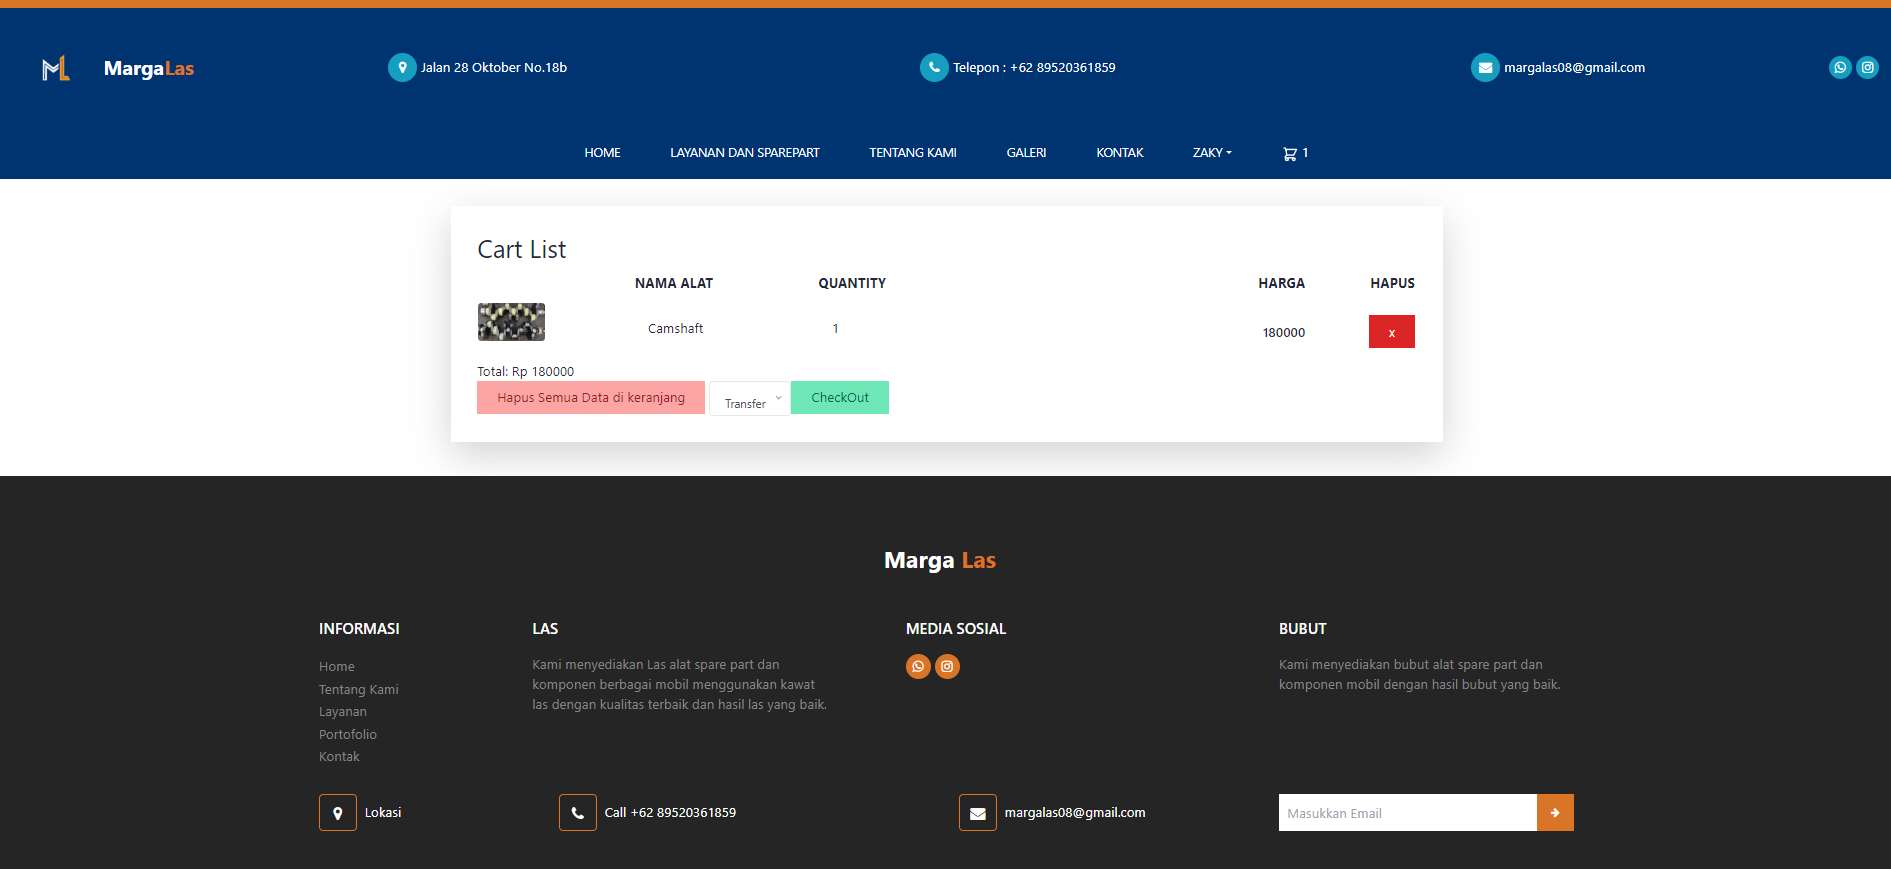
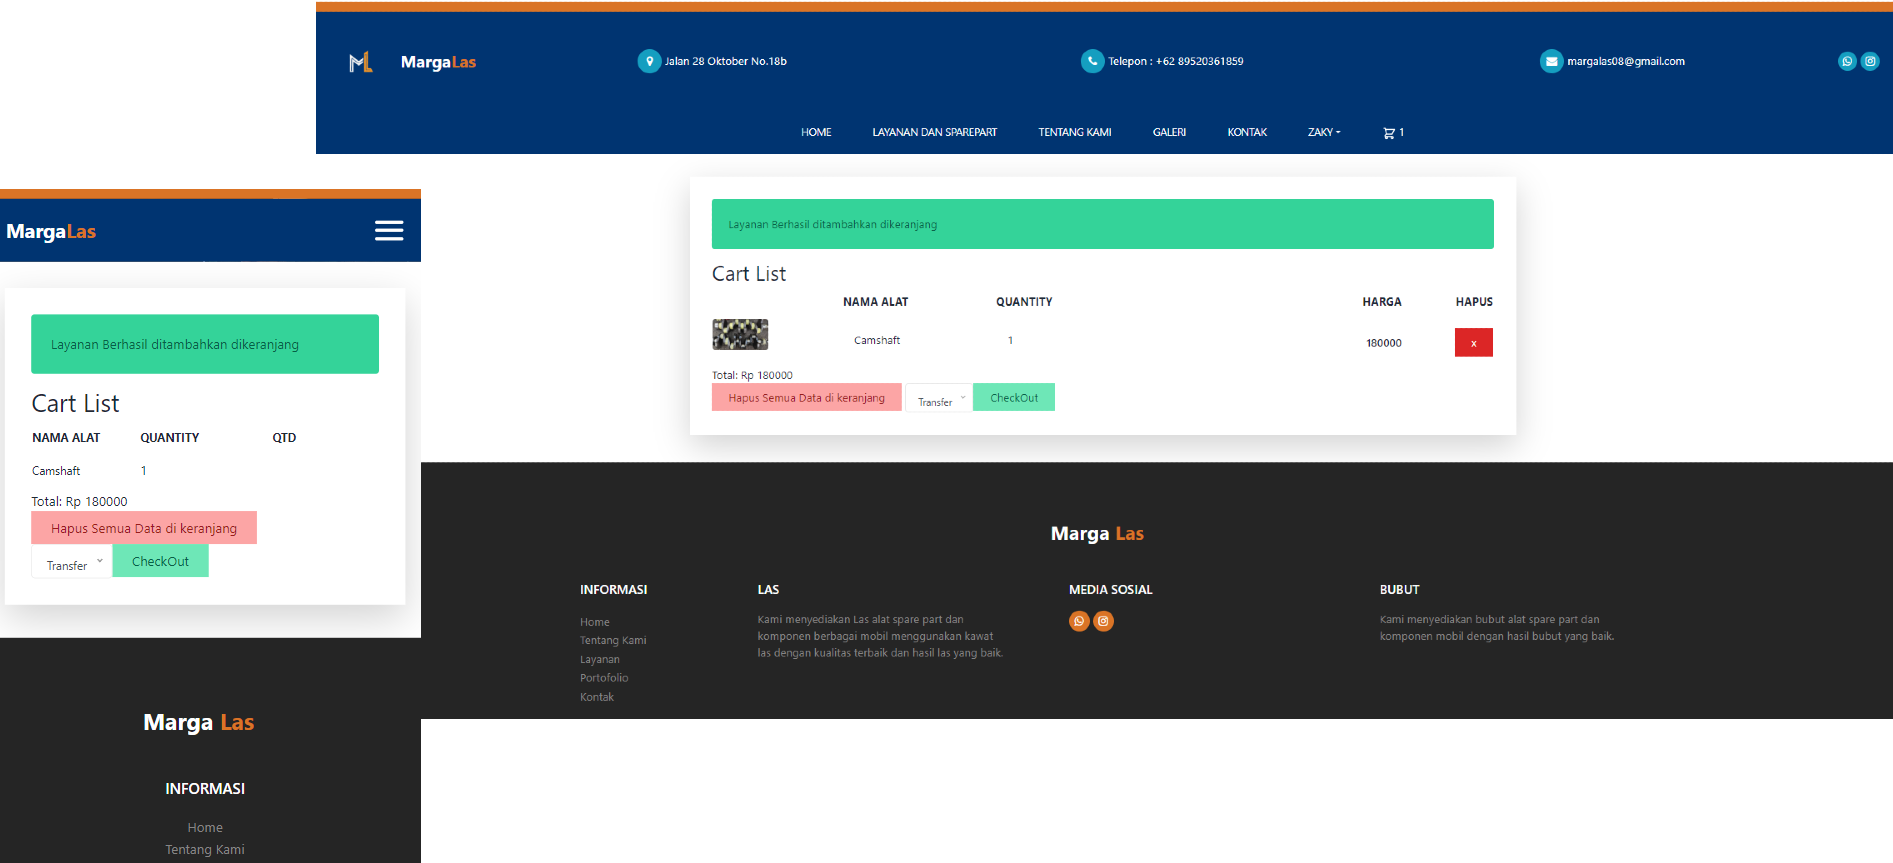
fix navbar, fix content, 50% sidebar

diff --git a/css/style.css b/css/style.css
@@ -13,9 +13,13 @@
 }
 
 body {
-  font-family: "roboto", sans-serif;
+  font-family: "ubuntu", sans-serif;
   background-color: var(--bg);
   /* color: #fff; */
+  background-image: url("/img/bg.png");
+  background-size: cover; /* Untuk menutupi seluruh area elemen body */
+  background-position: center; /* Untuk mengatur posisi gambar ke tengah */
+  background-repeat: no-repeat; /* Untuk mencegah pengulangan gambar */
 }
 
 /* Navbar */
@@ -25,13 +29,18 @@ body {
   align-items: center;
   display: flex;
   justify-content: center; /* align horizontal */
-  border-bottom: 1px solid #e0e1e6;
   position: fixed;
   top: 0;
   left: 0;
   right: 0;
   padding: 0.8rem 7%; /* Mengurangi padding atas dan bawah */
   z-index: 9999;
+}
+
+.navbar.scrolled {
+  background-color: #fff; /* Mengubah warna latar belakang menjadi putih */
+  box-shadow: 0px 4px 10px rgba(0, 0, 0, 0.1); /* Menambahkan box shadow */
+  transition: background-color 0.3s ease, box-shadow 0.3s ease; /* Animasi transisi */
 }
 
 .navbar .navbar-logo {
@@ -75,11 +84,66 @@ body {
 #hamburger-menu {
   display: none;
 }
+
+/* Main(content) */
+.container {
+  display: flex;
+  flex-wrap: wrap;
+  margin-top: 104px;
+}
+
+.col {
+  /* background-color: #f1f1f1; */
+  width: 40%;
+  margin: 45px;
+  /* border: solid 1px; */
+  /* line-height: 75px; */
+}
+
+.container .col .title {
+  font-size: 96px;
+  color: var(--primary);
+}
+
+.container .col .text {
+  font-size: 24px;
+  color: var(--primary);
+}
+
+.container .col img {
+  max-width: 100%;
+}
+
 /* Media Queries */
 /* Laptop */
-@media (max-width: 1366px) {
+@media (max-width: 1100px) {
   html {
-    font-size: 75%;
+    font-size: 85%;
+  }
+
+  /* main */
+  .container {
+    flex-direction: column;
+    align-items: center;
+  }
+
+  .col {
+    width: 80%; /* Mengubah lebar kolom */
+    margin: 20px 0; /* Mengurangi margin atas dan bawah */
+    text-align: center; /* Mengatur teks menjadi rata tengah */
+  }
+
+  .container .col .title {
+    font-size: 58px; /* Mengurangi ukuran font judul */
+  }
+
+  .container .col .text {
+    font-size: 28px; /* Mengurangi ukuran font teks */
+  }
+
+  .container .col img {
+    width: 100%; /* Mengubah lebar gambar menjadi penuh */
+    height: auto; /* Mengatur ketinggian gambar agar proporsional */
   }
 }
 
@@ -89,9 +153,9 @@ body {
     font-size: 62.5%;
   }
 
-  .navbar {
-    justify-content: flex-start; /* Menggeser elemen ke kiri */
-  }
+  /* .navbar {
+    justify-content: flex-start;
+  } */
 
   .navbar-logo {
     display: flex;
@@ -130,6 +194,31 @@ body {
 
   #hamburger-menu:hover {
     color: #05afaa;
+  }
+
+  /* main */
+  .container {
+    flex-direction: column;
+    align-items: center;
+  }
+
+  .col {
+    width: 80%; /* Mengubah lebar kolom */
+    margin: 20px 0; /* Mengurangi margin atas dan bawah */
+    text-align: center; /* Mengatur teks menjadi rata tengah */
+  }
+
+  .container .col .title {
+    font-size: 48px; /* Mengurangi ukuran font judul */
+  }
+
+  .container .col .text {
+    font-size: 18px; /* Mengurangi ukuran font teks */
+  }
+
+  .container .col img {
+    width: 100%; /* Mengubah lebar gambar menjadi penuh */
+    height: auto; /* Mengatur ketinggian gambar agar proporsional */
   }
 }
 

diff --git a/js/script.js b/js/script.js
@@ -1,0 +1,26 @@
+let hamburgerMenu = document.getElementById("hamburger-menu");
+let navbarNav = document.querySelector(".navbar-nav");
+hamburgerMenu.addEventListener("click", function (e) {
+  navbarNav.classList.toggle("active");
+});
+
+// jika menekan yang bukan dari sidebar, maka tombol active akan hilang
+document.addEventListener("click", function (e) {
+  // -> berfungsi untuk keluar dari sidebar
+
+  //   jika user tidak menekan hamburgermenu, dan tidak menekan salahsatu dari navbarNav(yang ada pada media resolusi tertentu) maka :
+  if (!hamburgerMenu.contains(e.target) && !navbarNav.contains(e.target)) {
+    // hapus class active pada navbarNav
+    navbarNav.classList.remove("active");
+  }
+});
+
+window.addEventListener("scroll", function () {
+  var navbar = document.querySelector(".navbar");
+  if (window.scrollY > 100) {
+    // Ubah angka 10 menjadi 10px atau jarak scroll yang Anda inginkan
+    navbar.classList.add("scrolled");
+  } else {
+    navbar.classList.remove("scrolled");
+  }
+});

diff --git a/index.html b/index.html
@@ -23,9 +23,23 @@
       <a href="#">Kontak</a>
     </div>
     <div class="navbar-extra">
-      <a href="#" id="hamburger-menu"><i data-feather="menu"></i></a>
+      <a href="#" id="hamburger-menu"><i data-feather="align-right"></i></a>
     </div>
   </nav>
+  <main class="content">
+    <div class="container">
+      <div class="col">
+        <h1 class="title">Portfolio</h1>
+        <p class="text">Dengan keahlian dalam pengembangan perangkat lunak, saya siap membantu Anda mencapai tujuan
+          teknis. Mari berkolaborasi untuk solusi yang sesuai dengan kebutuhan Anda.</p>
+      </div>
+      <div class="col">
+        <img src="/img/margalas.png" width="723px" alt="">
+        <!-- <img src="/img/margalas.png" width="200px" height="auto" alt=""> -->
+      </div>
+    </div>
+  </main>
+  <div style="height: 1000px;"></div>
 </body>
 <script src="js/script.js"></script>
 <script>
